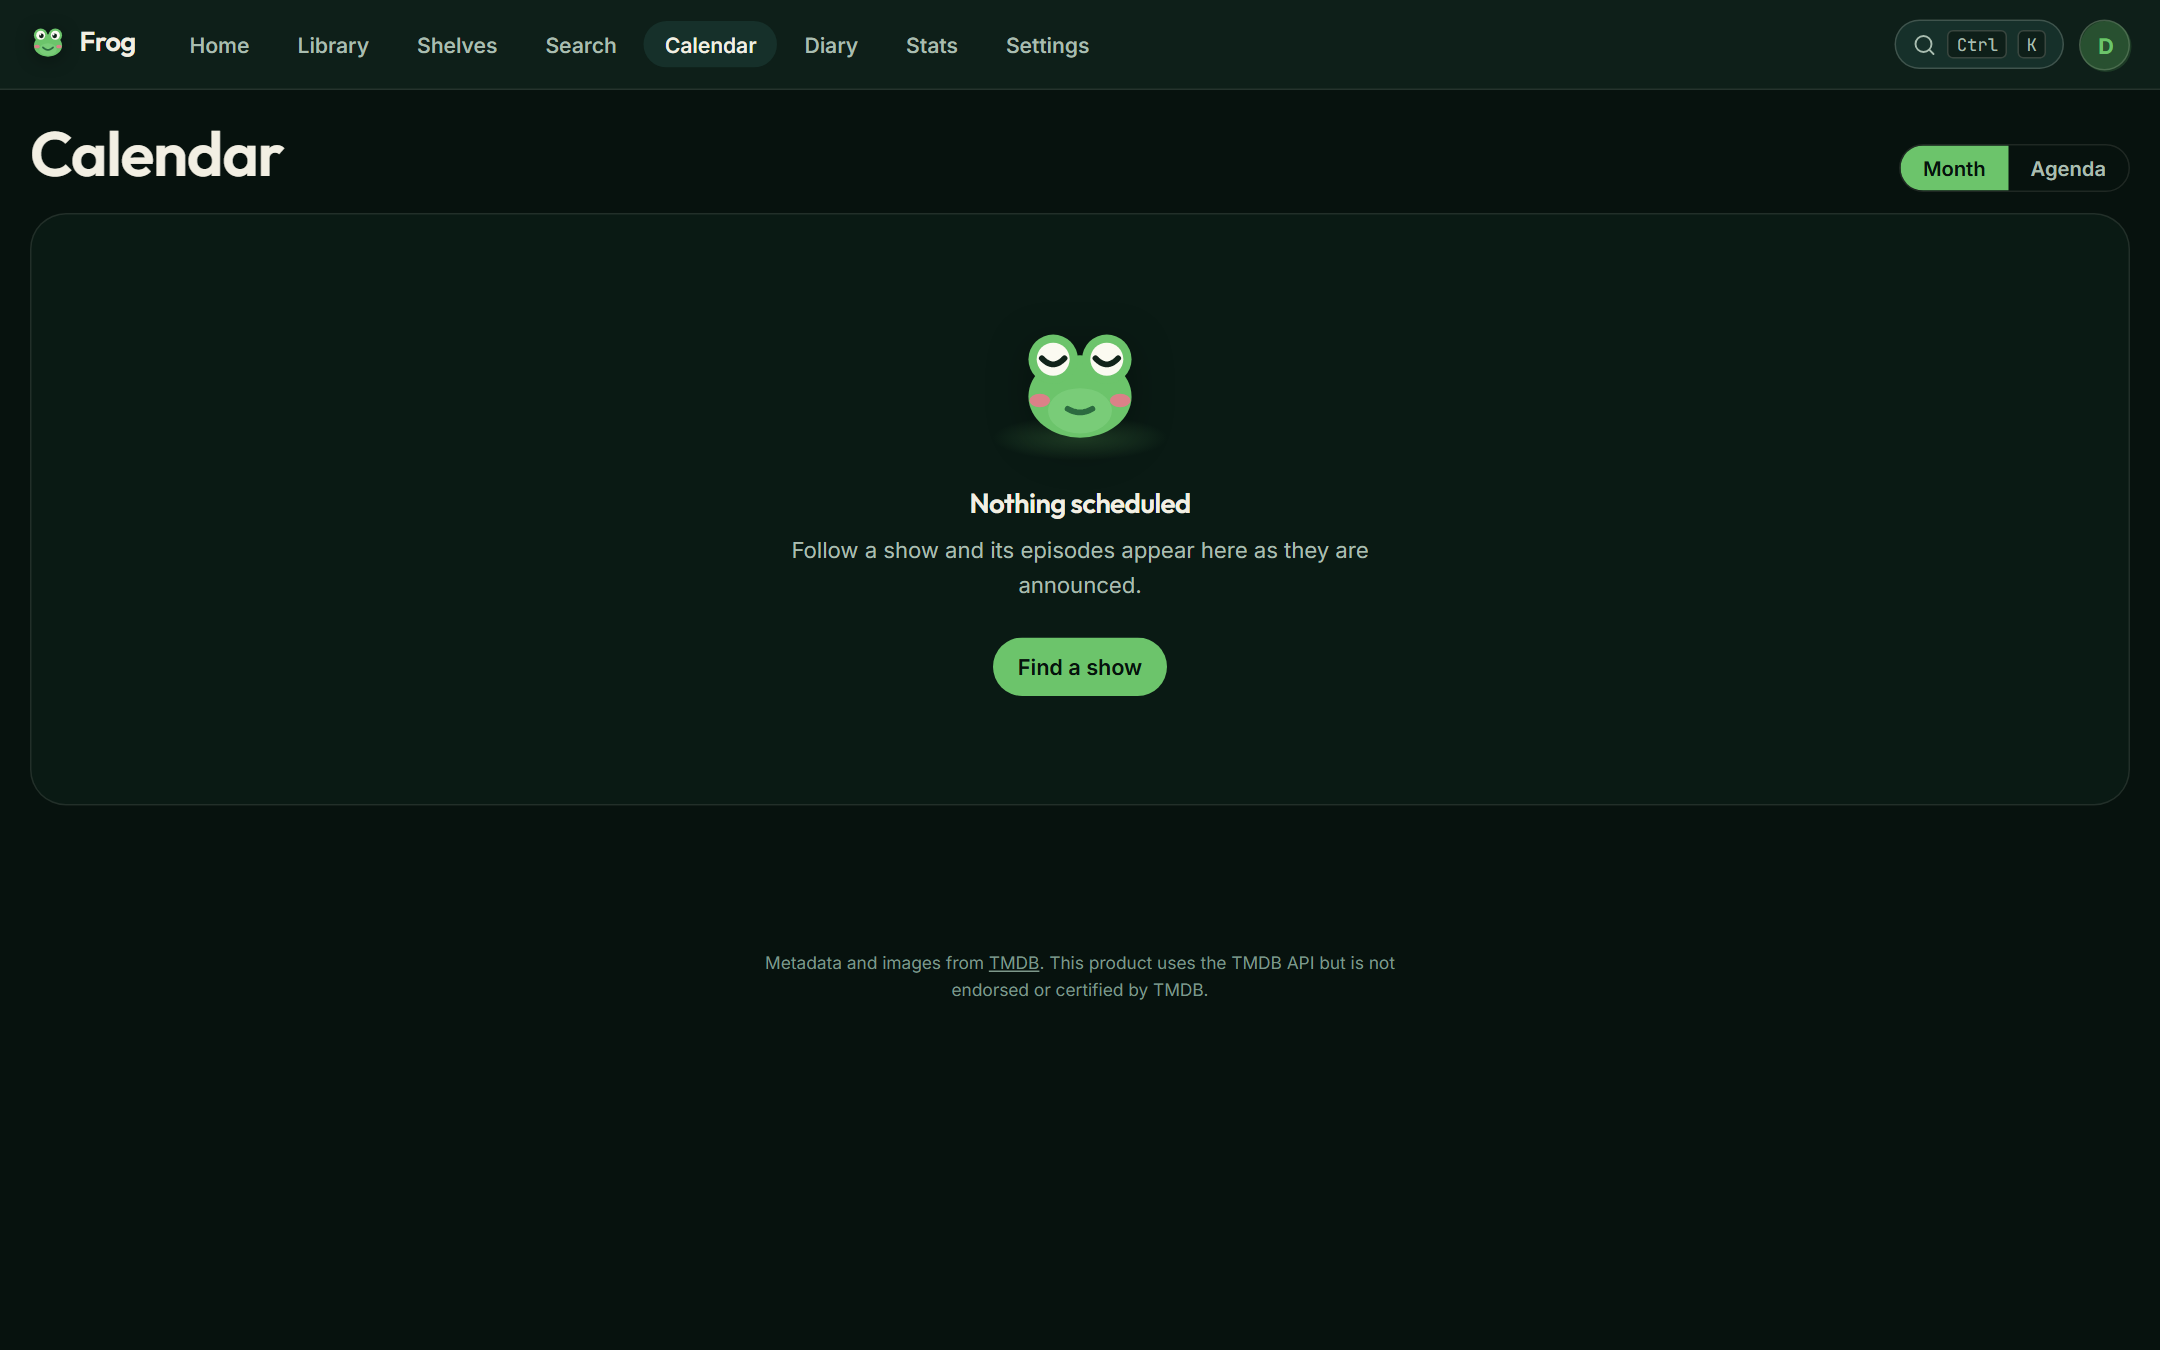
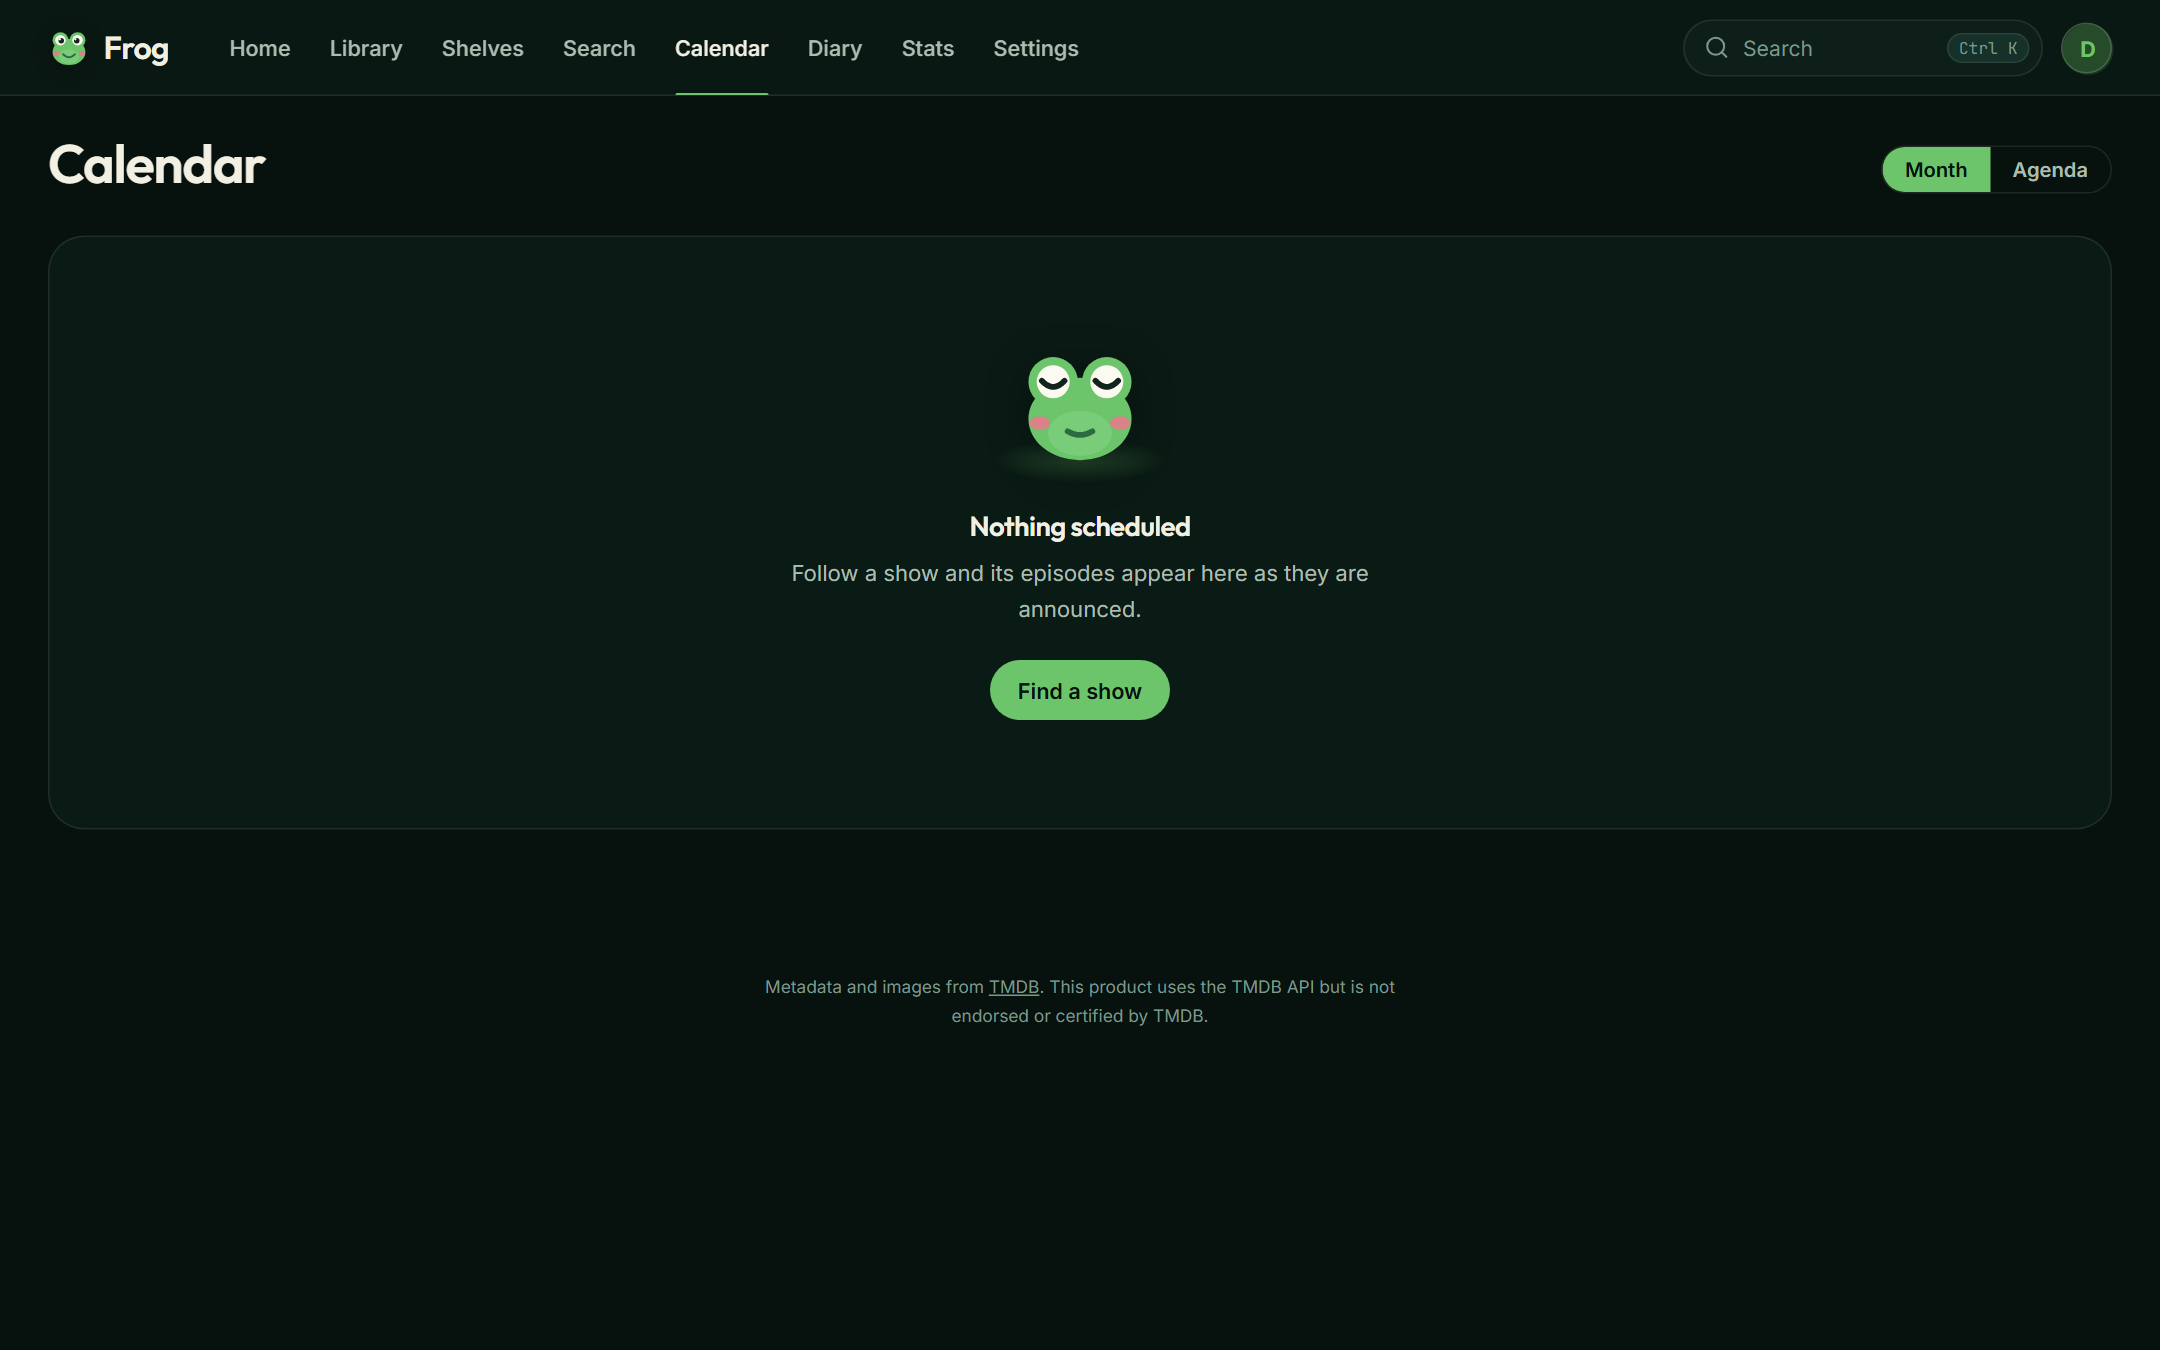
docs(release): write the Bullfrog notes for Frog 1.0
The 1.0.0 entry in RELEASE-NOTES.md, Bullfrog on About and in its test, a
README that matches what Frog does now (scores, logos, filters, episodes as
cards, where details come from), the roadmap moved on to Spring Peeper, and
fresh screenshots of every page.

Release-As: 1.0.0

diff --git a/frontend/e2e/smoke.spec.ts b/frontend/e2e/smoke.spec.ts
@@ -260,7 +260,7 @@ test('the about page credits its sources', async ({ page }) => {
 	await page.goto('/about');
 
 	await expect(page.getByRole('heading', { name: 'Frog', level: 1 })).toBeVisible();
-	await expect(page.getByText('Toad')).toBeVisible();
+	await expect(page.getByText('Bullfrog')).toBeVisible();
 	await expect(page.getByRole('link', { name: /TMDB/ }).first()).toBeVisible();
 	await expect(page.getByRole('link', { name: /Lucide/ })).toBeVisible();
 });

diff --git a/frontend/src/routes/about/+page.svelte b/frontend/src/routes/about/+page.svelte
@@ -65,7 +65,7 @@
 		<Logo size={56} />
 		<div>
 			<h1>Frog</h1>
-			<p class="muted">Version {session.status?.version ?? '—'} · Toad</p>
+			<p class="muted">Version {session.status?.version ?? '—'} · Bullfrog</p>
 		</div>
 	</header>
 

diff --git a/README.md b/README.md
@@ -34,13 +34,13 @@ their own. It costs nothing at all.
 </td>
 <td width="50%">
 <img src="docs/screenshots/title-desktop-pond.png" alt="A show page tinted with colours taken from its own poster">
-<p align="center"><b>A title page</b><br><sub>Coloured by its own poster, down to the buttons</sub></p>
+<p align="center"><b>A title page</b><br><sub>Its logo, the scores that matter, and every episode at a glance</sub></p>
 </td>
 </tr>
 <tr>
 <td>
-<img src="docs/screenshots/diary-desktop-pond.png" alt="A diary of watched episodes grouped by month">
-<p align="center"><b>Your diary</b><br><sub>Everything you have watched, newest first</sub></p>
+<img src="docs/screenshots/diary-desktop-pond.png" alt="A diary of watched episodes, one column, grouped by month and day">
+<p align="center"><b>Your diary</b><br><sub>Everything you have watched, day by day</sub></p>
 </td>
 <td>
 <img src="docs/screenshots/stats-desktop-pond.png" alt="Time watched, streaks, genres and the people you watch most">
@@ -59,8 +59,8 @@ their own. It costs nothing at all.
 </tr>
 <tr>
 <td>
-<img src="docs/screenshots/search-desktop-pond.png" alt="Search results for a name: films and shows, then people and studios">
-<p align="center"><b>Search everything</b><br><sub>Films, shows, people, characters, studios and members</sub></p>
+<img src="docs/screenshots/search-desktop-pond.png" alt="Search results for a name, with a tab for each kind of result and a row of filters">
+<p align="center"><b>Search everything</b><br><sub>Films, shows, people, characters and studios, with filters to browse by</sub></p>
 </td>
 <td>
 <img src="docs/screenshots/calendar-desktop-pond.png" alt="The calendar of upcoming episodes">
@@ -109,22 +109,28 @@ only reads: it never changes anything on your AniList.
 **Find anything.** One search for films, shows, people, characters, studios
 and the other members of your Frog, each with a tab of its own. Results lead
 with the thing you actually meant, a few letters of something you track are
-enough, and every studio has a page of what it made.
+enough, and every studio has a page of what it made. Or leave the name empty
+and browse: genre, year, score and what is already in your library sit in a
+row of menus under the search bar.
+
+**Scores you can compare.** Every title page shows AniList, IMDb, Rotten
+Tomatoes and Metacritic side by side, each with its mark and all as
+percentages.
 
 **Watch the trailer, then where to watch it.** Trailers play right on the
 title page, and each streaming logo opens that service searching for the
 title.
 
-**Tick episodes off.** There is a circle beside every episode. Tap it and the
-show moves itself to Watching; tick the last one and it completes itself. Mark
-a show completed and Frog ticks every aired episode, asking when you watched
-them and which specials you saw. Rate
-episodes one by one, leave notes on them, and see a whole series at a glance as
-a grid of coloured squares.
+**Tick episodes off.** Every season has a tab, and every episode a card with
+a circle on its still. Tap it and the show moves itself to Watching; tick the
+last one and it completes itself. Mark a show completed and Frog ticks every
+aired episode, asking when you watched them and which specials you saw. Rate
+whole seasons once they have finished, and leave a note on any episode.
 
 **Know what is next.** Home opens on whatever you are in the middle of and
-names the exact next episode. The calendar shows the month ahead, and the diary
-reads back everything you have watched.
+names the exact next episode, then everything else you are following, your
+shelves and the week's new episodes. The calendar shows the month ahead, and
+the diary reads back everything you have watched, day by day.
 
 **Hear about it the day it lands.** Turn on notifications and Frog tells you
 when a show you follow has a new episode out. Mute any show with the bell on
@@ -145,10 +151,9 @@ mouse.
 stars, or three smileys. Switch whenever you like: the number underneath never
 changes, so nothing is ever rounded away.
 
-**Make it look how you want.** Four themes plus a colour editor, six fonts, text
-size, corner radius, how much glass blur, how much animation, four card styles,
-poster size, what appears on a card, which rows show on Home and in what order,
-and a box for your own CSS if none of that is enough. Export the lot as a file.
+**Make it look how you want.** Four themes plus a colour editor, six fonts,
+text size, how much animation, four card styles, poster size, what appears on a
+card, and which rows show on Home and in what order.
 
 **Keep spoilers out.** Blur the still for anything you have not watched yet.
 
@@ -162,7 +167,8 @@ keeps working when you have no signal.
 - **It is yours.** The whole database is one file on your own disk. No account
   on someone else's computer, nothing that can be discontinued.
 - **It is free, genuinely.** No subscription, no paid tier, no API that starts
-  charging later. The only thing it needs is a free TMDB key.
+  charging later. The only thing it needs is a free TMDB key; free MDBList and
+  fanart.tv keys add scores and logos if you want them.
 - **It is quiet.** No ads, no tracking, no analytics, no telemetry, no emails.
 - **It is fast.** Everything you have looked at once is cached locally, so most
   pages never touch the network at all.
@@ -183,8 +189,10 @@ Frog assumes everyone on it wants to be left alone, including from each other.
 - **Sharing is something you switch on.** A profile lets others *on your Frog*
   see what you are watching. It starts off, and it is never visible outside.
 - Everything sits behind a password, with two-factor sign-in if you want it.
-- Nothing leaves the machine except requests to TMDB for artwork, and those
-  are cached so they mostly happen once.
+- Nothing leaves the machine except requests for details, artwork and
+  scores: to TMDB, to AniList, and to MDBList and fanart.tv if you gave them
+  a key. None of them is told who you are, and what comes back is cached so
+  most requests happen once.
 - There is no analytics of any kind, and no "anonymous usage data".
 
 ## Questions
@@ -241,7 +249,10 @@ visible to anyone without an account.
 <br>
 
 [TMDB](https://www.themoviedb.org), a community-built film and television
-database. Frog uses their free API and caches whatever it fetches.
+database, with anime from [AniList](https://anilist.co) and title logos TMDB
+lacks from [fanart.tv](https://fanart.tv). Scores from IMDb, Rotten Tomatoes
+and Metacritic come through [MDBList](https://mdblist.com). Frog uses their free
+APIs and caches whatever it fetches.
 
 </details>
 

diff --git a/ROADMAP.md b/ROADMAP.md
@@ -7,8 +7,8 @@ finishes something updates it. **Next** is ordered — take from the top.
 
 | | |
 | --- | --- |
-| **Release** | 0.8.1 "Toad" |
-| **Next codenames** | Bullfrog (1.0) |
+| **Release** | 1.0.0 "Bullfrog" (once its release pull request is merged) |
+| **Next codenames** | Spring Peeper, Glass Frog, Horned Frog |
 | **Live at** | a DuckDNS hostname, behind Caddy |
 | **Hosted on** | Oracle Cloud Always Free, `VM.Standard.E2.1.Micro` — 2 vCPU, 954 MB, amd64, Amsterdam |
 | **Updates** | by itself: a timer pulls the newest release every 15 minutes, backs up first, rolls back on an unhealthy `/healthz` |
@@ -105,20 +105,18 @@ production runs. `docs/DEPLOY-ORACLE.md` is the deployment;
    not centralised yet.
 13. **Smaller things.** Customisable keyboard shortcuts, renaming and
    recolouring statuses, muted trailer autoplay, per-shelf layout defaults.
-14. **Finish the interface overhaul** (`feat/ui-overhaul`). Done: the top
-   bar with a search field, Home (shelf covers and a New shelf tile first,
-   "Airing this week" as cards, two "Because you watched" rows at most),
-   Shelves, Search (categories as tabs, filters beside the results), the
-   title page (one meta line, AniList / IMDb / Rotten Tomatoes / Metacritic
-   as percentages with their marks, TMDB standing in while MDBList has
-   nothing, one family of controls, crew and where to watch beside the
-   episodes), Administration's layout, one page header on Library,
-   Calendar, Diary, Stats and Import. Still to do the same way: Settings,
-   People and profiles, a person's page, Calendar and Diary bodies, Stats,
-   What's new and About; one pass over dialogs, menus and toasts so they
-   share a surface; and new screenshots, since every page has changed.
-   An earlier try put the sections in a left sidebar; the owner preferred
-   the bar on top.
+14. **Carry the 1.0 design to the pages it has not reached.** Settings,
+   People and profiles, a person's page, the Calendar and Stats bodies,
+   What's new and About still have their earlier layout. Then one pass over
+   dialogs, menus and toasts so they share a surface. Home, Search, title
+   pages, the Diary, Shelves and Administration show the way.
+15. **Home rows already saved.** A layout saved before 1.0 keeps the rows it
+   had, Recently added and Favourites among them, so long-time accounts see a
+   busier Home than a new one until they switch rows off in Settings → Home.
+   Offer a one-tap "use the new layout" there.
+16. **Logos still missing.** Titles nobody has made a logo for anywhere (most
+   are films not out yet) show their name; they are asked again after a
+   month.
 
 8. **Left from the UX pass.** Each small, none urgent:
    - A person's filmography leads with talk-show and documentary appearances;
@@ -297,6 +295,18 @@ production runs. `docs/DEPLOY-ORACLE.md` is the deployment;
   `lib/settings.svelte.ts`. Add the id to `HOME_ROWS` and to the default list.
 
 ## Shipped
+
+**1.0.0 Bullfrog** — The bar on top with a search field. Home with one idea
+per row: continue watching (caught-up shows at its end), shelves as covers,
+the week's episodes, one row of recommendations. Search with tabs that filter
+the answer and filters as menus under the bar; a genre only one side has no
+longer brings the other side back unfiltered. Title pages with one line of
+facts, AniList / IMDb / Rotten Tomatoes / Metacritic as percentages with
+TMDB standing in, one family of controls, and episodes as cards under season
+tabs; the episode ratings chart is gone (MDBList has no episode scores).
+Logos from fanart.tv and from the show a season or special belongs to. A
+centred diary. Measured against 0.8 with the CPU slowed four times: the same
+load and scroll times on every main page.
 
 **0.8.0 and 0.8.1 Toad** — search ranked by how well a name answers, with films, shows,
 people, characters and studios apart, and filters with or without a name. Scores

diff --git a/RELEASE-NOTES.md b/RELEASE-NOTES.md
@@ -9,9 +9,56 @@ people working on Frog.
 This project follows [Keep a Changelog](https://keepachangelog.com/en/1.1.0/) and
 [semantic versioning](https://semver.org/spec/v2.0.0.html).
 
-## Upcoming — Bullfrog —
+## Upcoming — Spring Peeper —
 
 In progress.
+
+## [1.0.0] — Bullfrog — 2026-10-30
+
+Frog 1.0. A calmer home, a search you can steer, and title pages that put the
+show first.
+
+![Home in the Pond theme](docs/screenshots/home-desktop-pond.png)
+
+### Highlights
+
+- **A home with one idea per row.** What you are watching leads, with shows
+  waiting on their next episode at the end of the same row. Your shelves, the
+  week's new episodes and one row of recommendations follow.
+- **Search you can steer.** Genre, year, score, your library and sort sit in a
+  row of menus under the search bar. Films, shows, people, characters, studios
+  and members each have a tab, and the count on every tab is the whole answer.
+- **Title pages that put the show first.** One line of facts, the scores that
+  matter, and every control in one family. Episodes are cards under a tab for
+  each season, with a tick on every still.
+- **Scores you can compare.** AniList, IMDb, Rotten Tomatoes and Metacritic,
+  each with its mark and all as percentages. TMDB stands in when the others
+  have nothing yet.
+- **Logos for nearly everything.** Titles TMDB has no logo for get one from
+  fanart.tv, and a new season or special borrows the logo of the show it
+  belongs to.
+- **A diary that reads like one.** A single column down the middle of the
+  page, each day once, with the month always in view.
+
+### Improvements
+
+- The bar along the top holds every section, a search field and your account.
+- Shelves have covers, and Home offers a new one in a single tap.
+- Filters work without a name: pick a genre or a year and browse.
+- Shelves, Library, Calendar, Diary, Stats, Import and Administration share
+  one page heading.
+- Administration lines its sections up in two even columns.
+- Dark logos stay readable on dark themes.
+- On a phone, search filters open as a sheet along the bottom of the screen.
+
+### Fixes
+
+- A genre only shows have, such as Talk, finds only shows, and one only films
+  have finds only films.
+- "Not in my library" together with a status finds everything with that
+  status, not only what TMDB happens to list first.
+- A year filter applies as soon as all four digits are in.
+- Home and title pages blend into the page without a line under the artwork.
 
 ## [0.8.1] — Toad — 2026-10-30
 
@@ -473,6 +520,7 @@ The first release.
 - Person pages that highlight what you have already seen.
 - Runs as a single container, or directly with one script.
 
+[1.0.0]: https://github.com/Frog-Movie-Tv/Frog/releases/tag/v1.0.0
 [0.8.1]: https://github.com/Frog-Movie-Tv/Frog/releases/tag/v0.8.1
 [0.8.0]: https://github.com/Frog-Movie-Tv/Frog/releases/tag/v0.8.0
 [0.7.0]: https://github.com/Frog-Movie-Tv/Frog/releases/tag/v0.7.0
